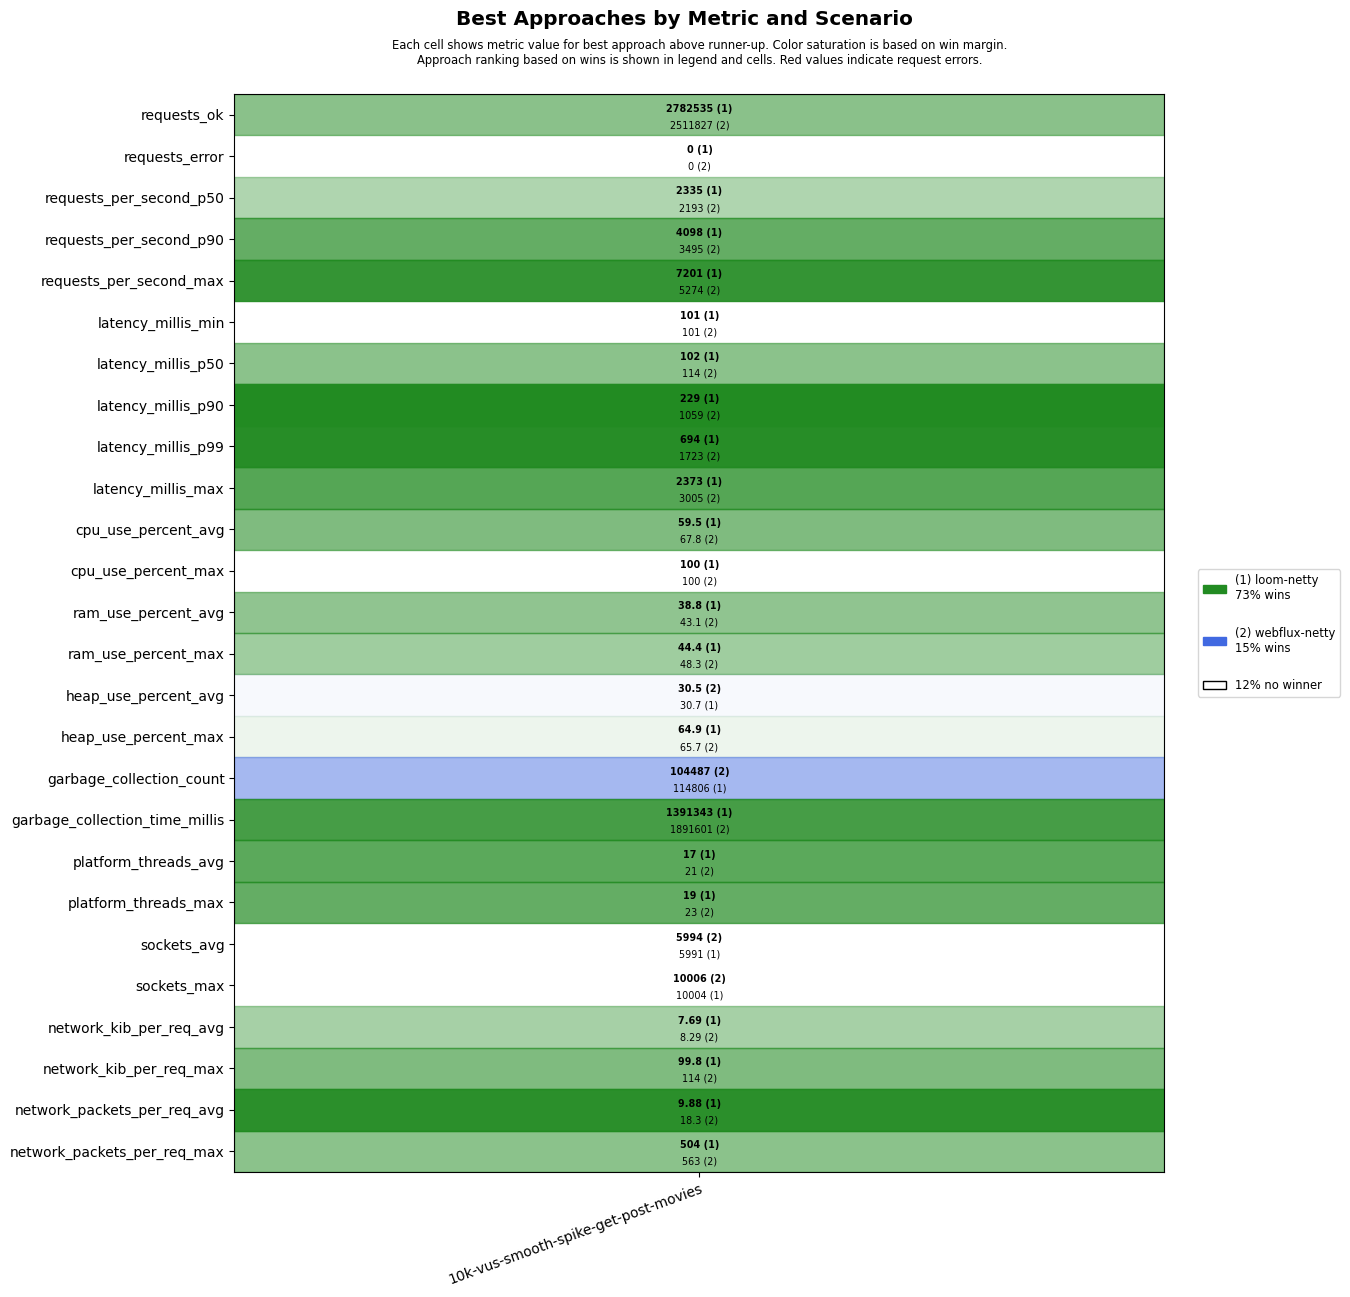
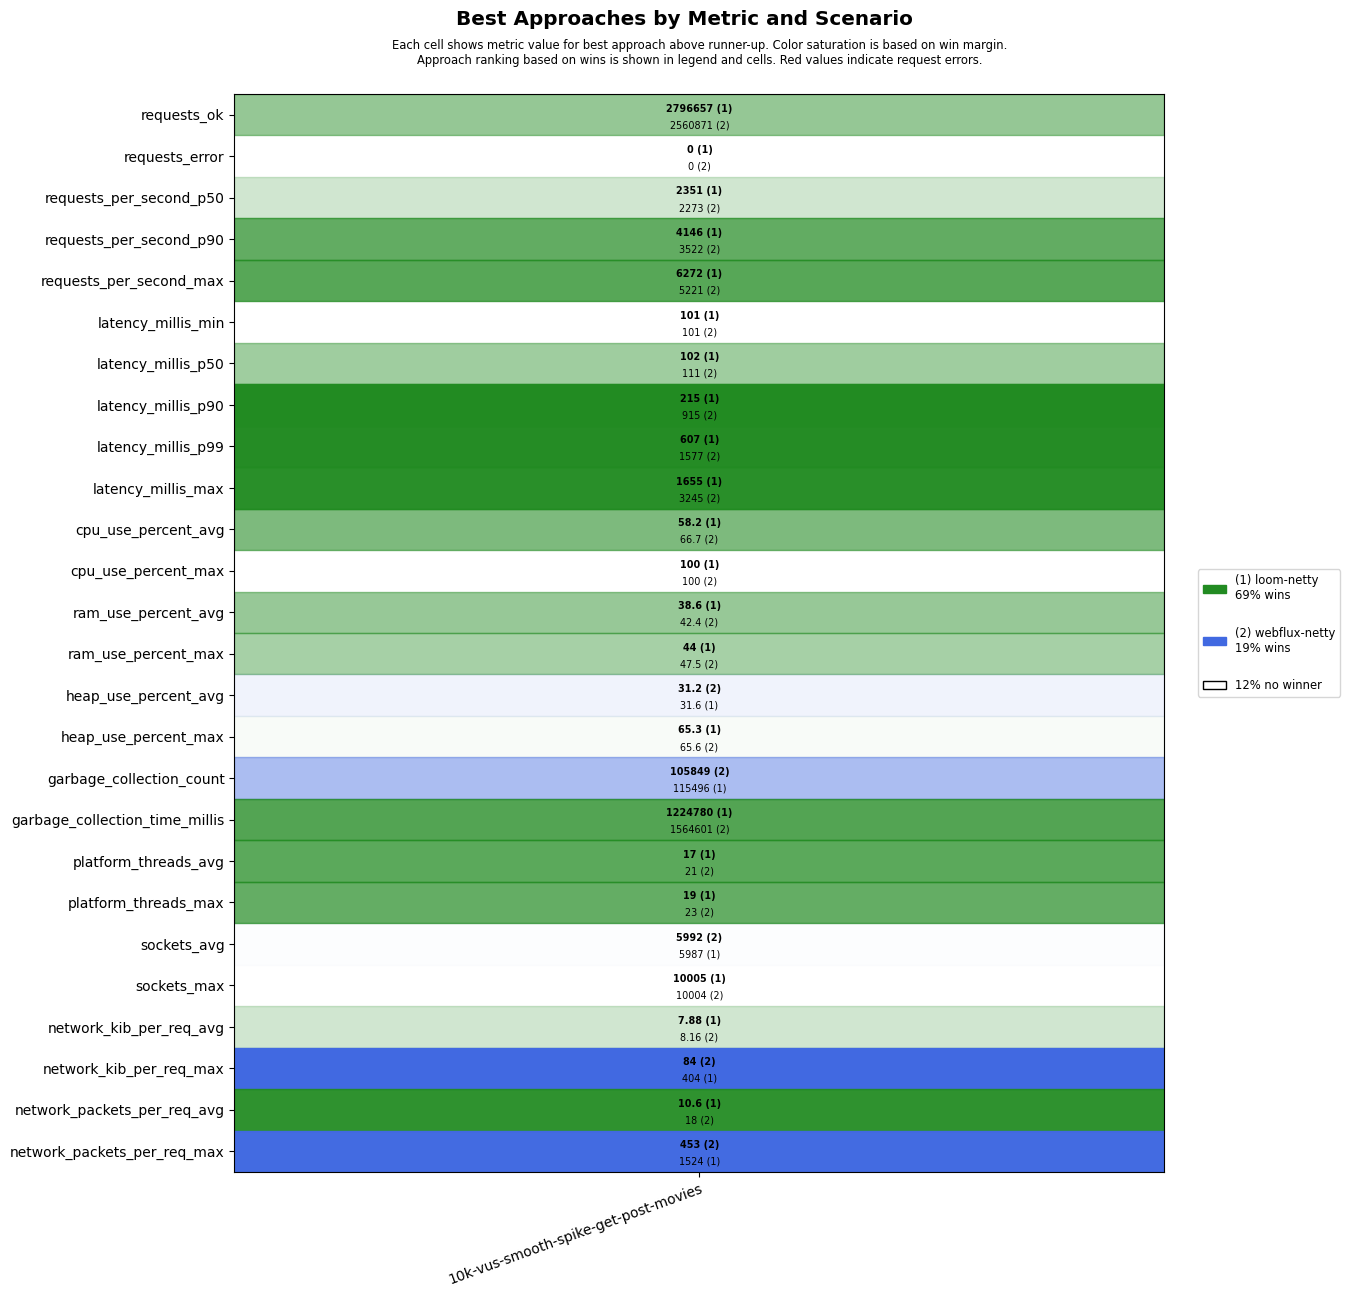
Apply automatic changes

diff --git a/results/ci/scenarios-soaktest/Ubuntu-22.04/java-23/results.md b/results/ci/scenarios-soaktest/Ubuntu-22.04/java-23/results.md
@@ -4,19 +4,19 @@
 
 | **Name**                | **Value** |
 |-------------------------|-----------|
-| **Start (UTC)** | 2024-10-02 05:23:31 |
-| **End (UTC)** | 2024-10-02 06:05:29 |
-| **Duration (hh:mm:ss)** | 00:41:58 |
+| **Start (UTC)** | 2025-03-02 05:25:36 |
+| **End (UTC)** | 2025-03-02 06:07:28 |
+| **Duration (hh:mm:ss)** | 00:41:52 |
 
 ## System Specs
 
 | **Name**                | **Value** |
 |-------------------------|-----------|
-| **Java** | OpenJDK 64-Bit Server VM Corretto-23.0.0.37.1 (build 23+37-FR, mixed mode, sharing) |
-| **Spring Boot** | 3.3.4 |
+| **Java** | OpenJDK 64-Bit Server VM Corretto-23.0.2.7.1 (build 23.0.2+7-FR, mixed mode, sharing) |
+| **Spring Boot** | 3.4.3 |
 | **Python** | 3.10.12 |
 | **OS** | Ubuntu 22.04.5 LTS |
-| **Kernel** | 6.8.0-1014-azure |
+| **Kernel** | 6.8.0-1021-azure |
 | **CPU** | AMD EPYC 7763 64-Core Processor |
 | **CPU Cores** | 4 |
 | **RAM** | 15Gi total, 12Gi available |
